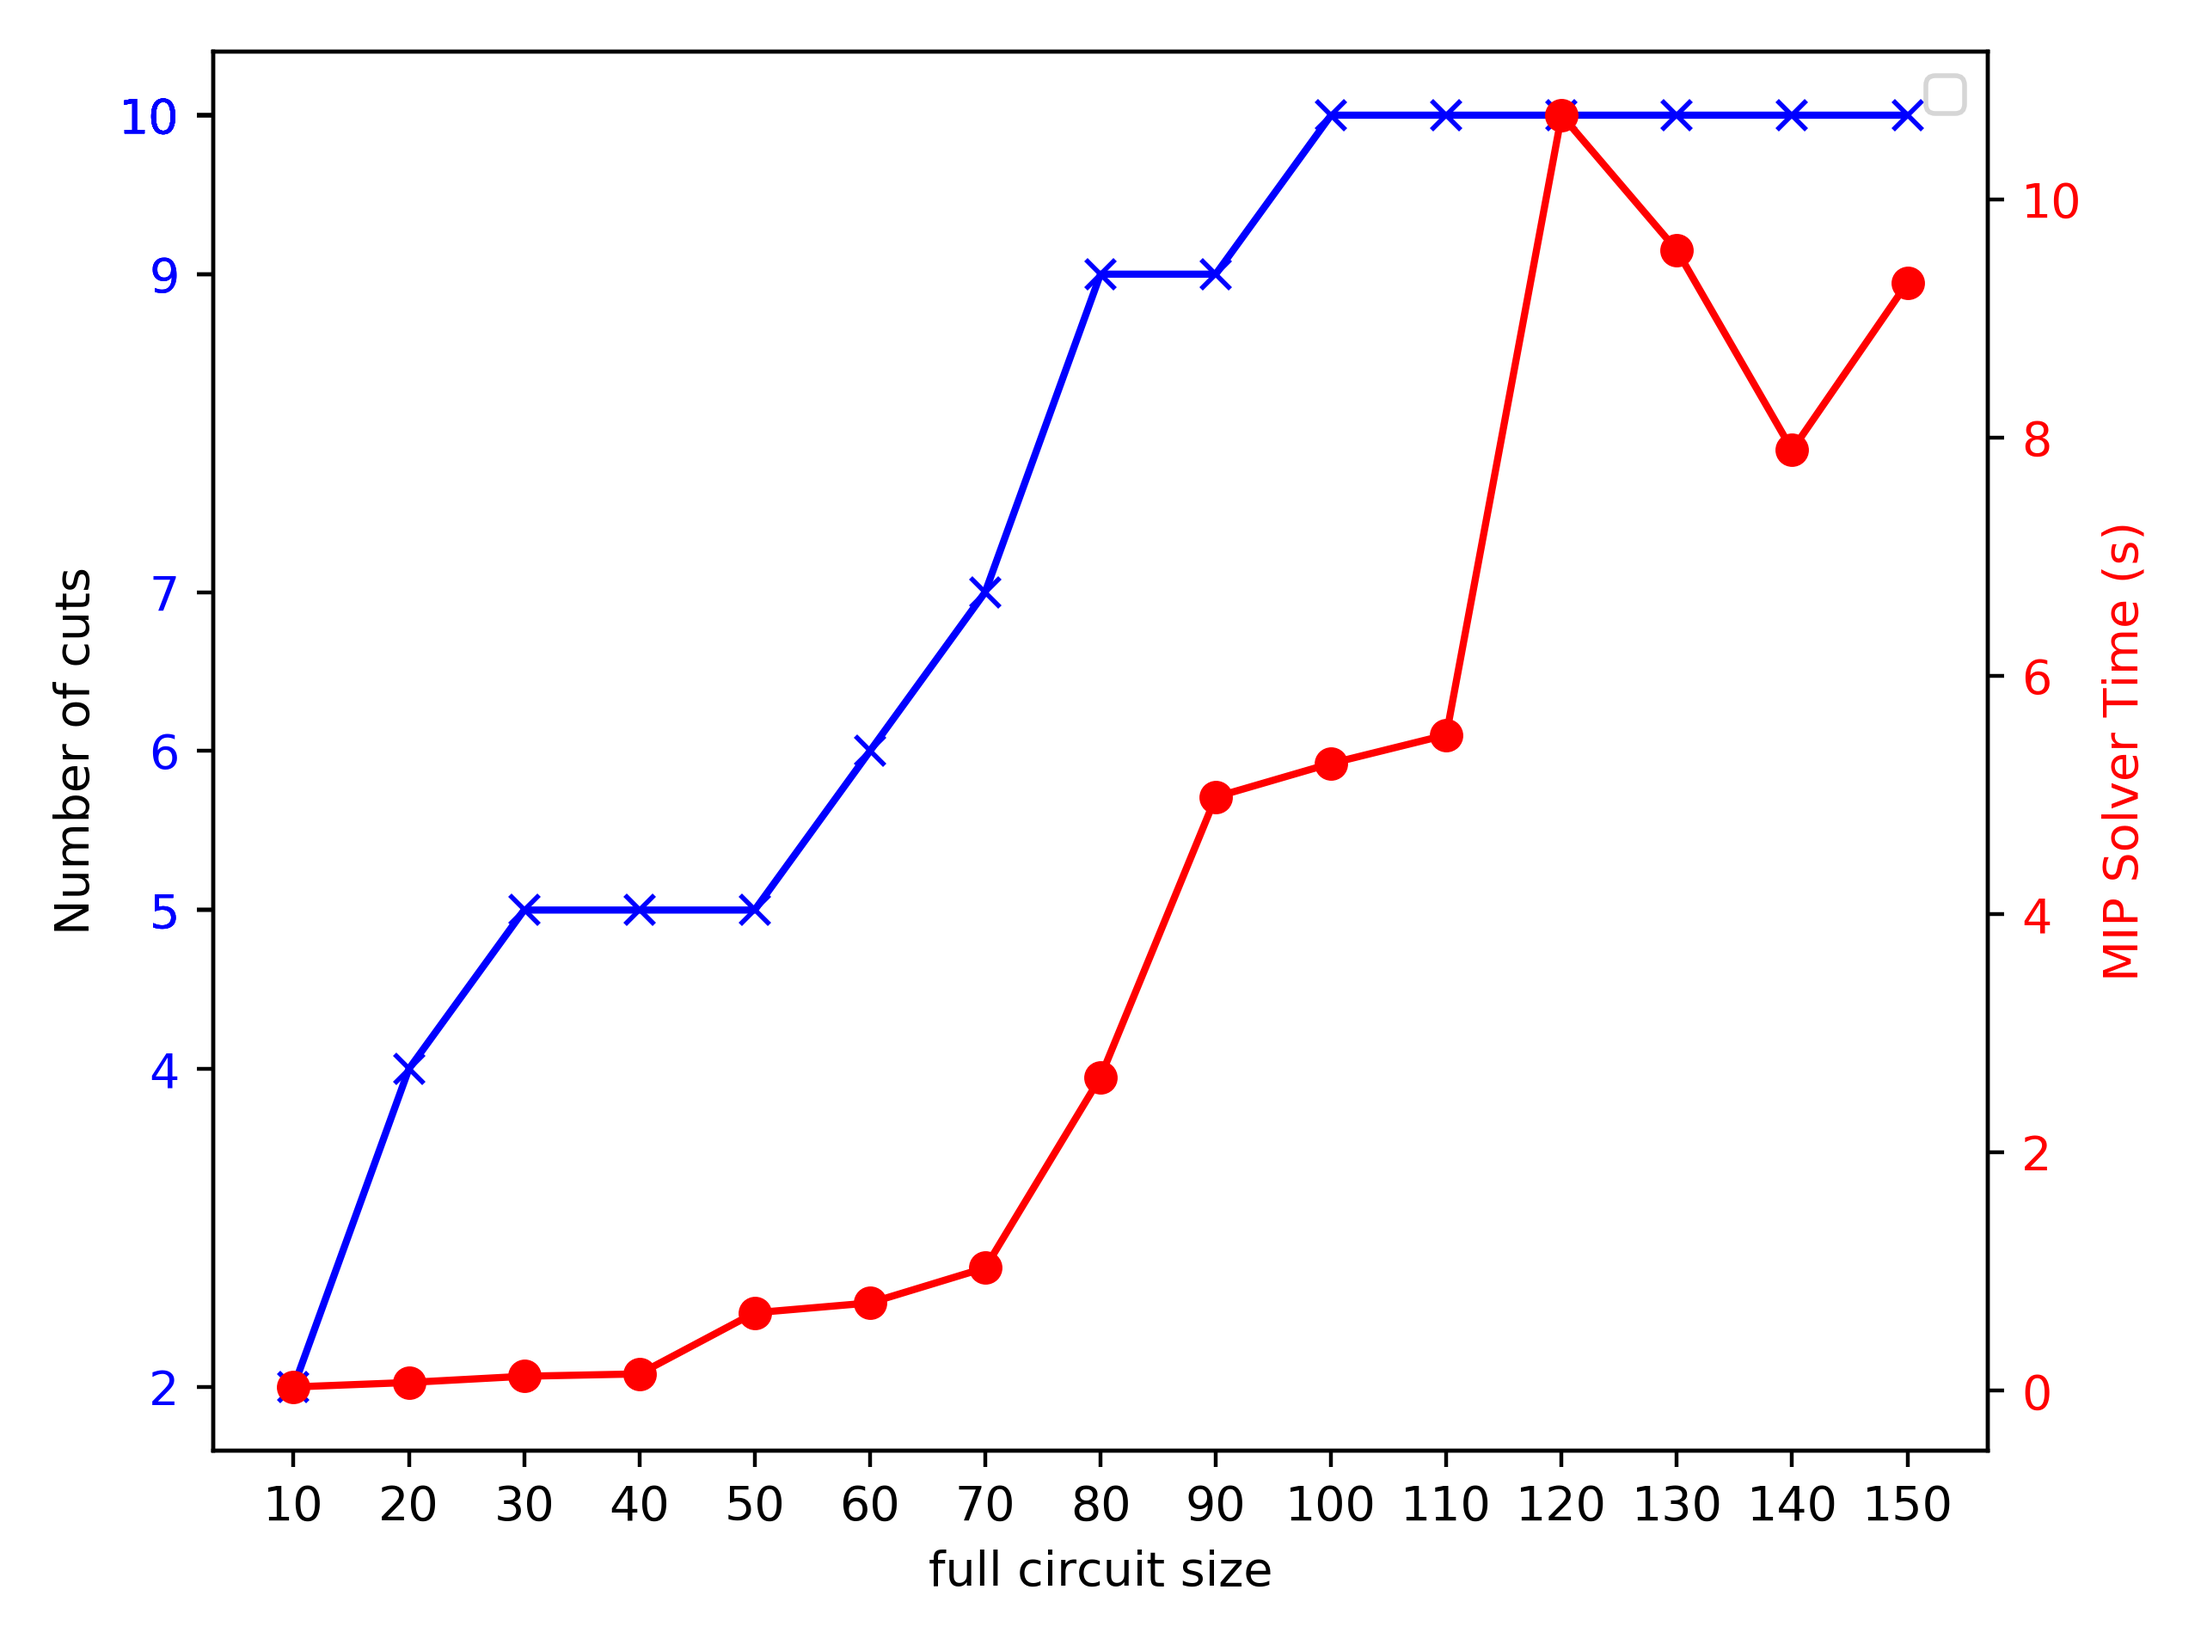
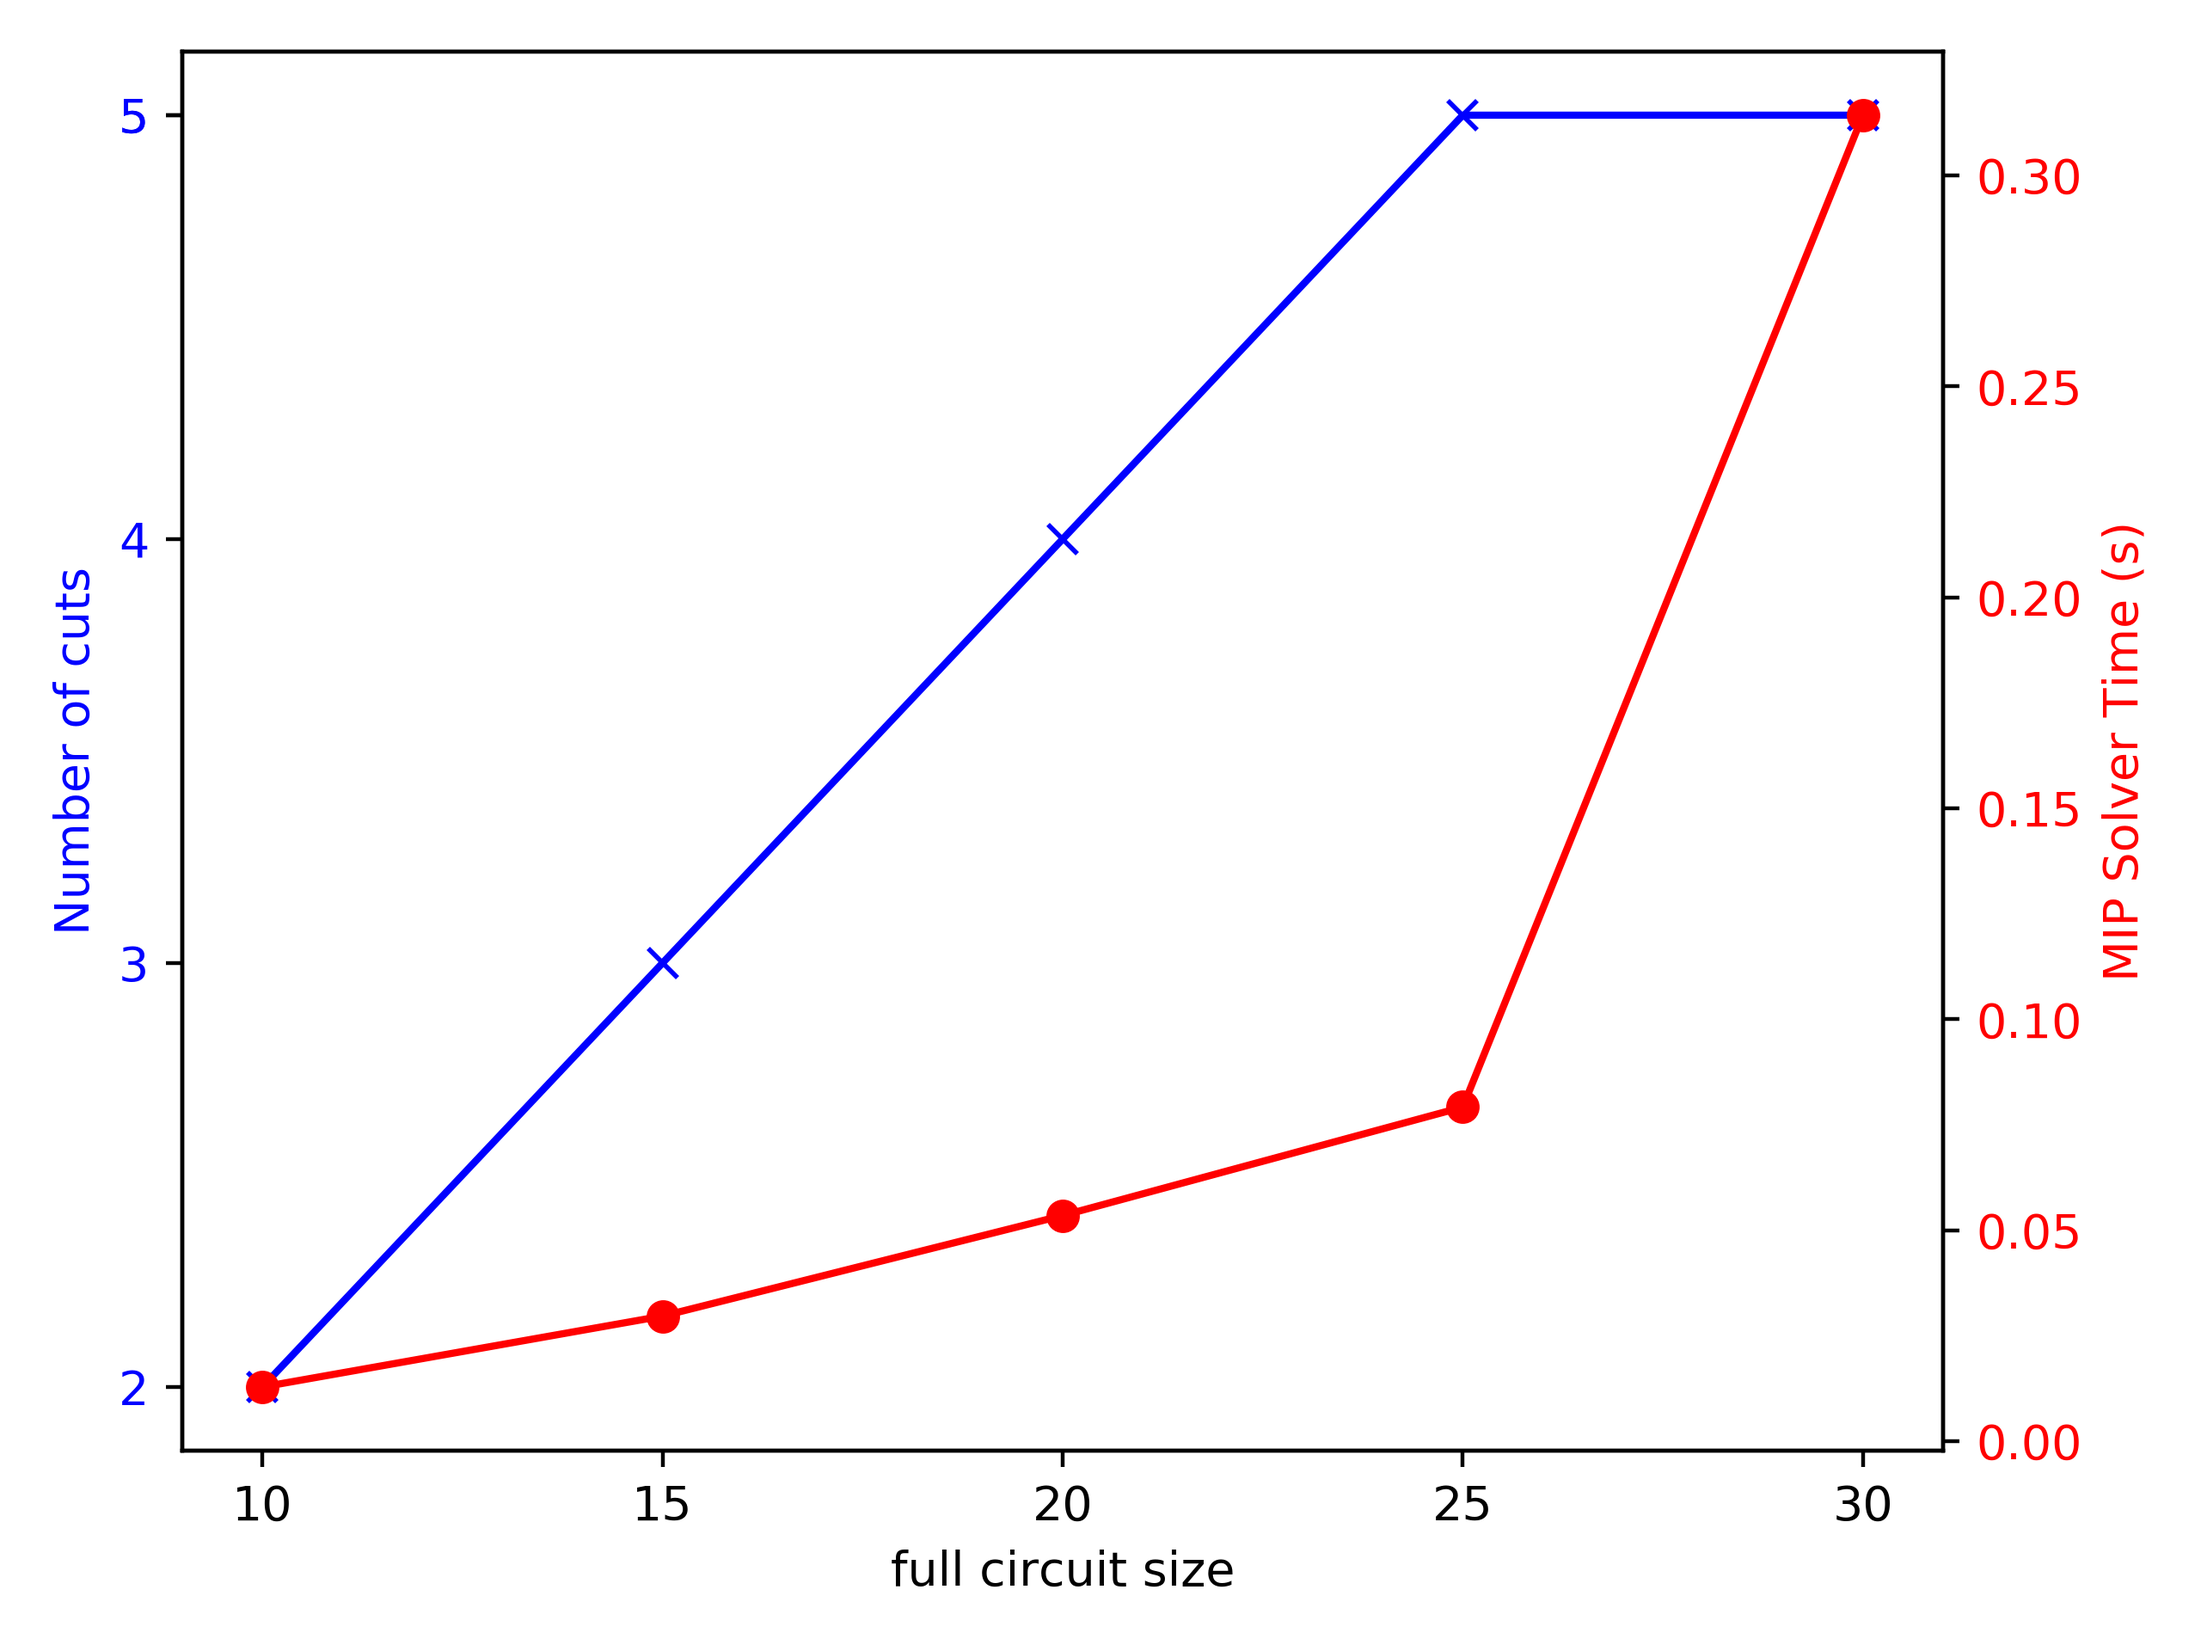
fixing cuts scaling plot

diff --git a/scalability/cuts_scaling.py b/scalability/cuts_scaling.py
@@ -22,7 +22,7 @@ def make_plot(fc_sizes,num_cuts,searcher_time):
     plt.yticks(ticks=num_cuts,labels=num_cuts)
     
     ax1.plot(fc_sizes,num_cuts,marker='x',color='b')
-    ax1.set_ylabel('Number of cuts')
+    ax1.set_ylabel('Number of cuts',color='b')
     ax1.set_xlabel('full circuit size')
     ax1.tick_params(axis='y', labelcolor='b')
 
@@ -31,10 +31,10 @@ def make_plot(fc_sizes,num_cuts,searcher_time):
     ax2.set_ylabel('MIP Solver Time (s)',color='r')
     ax2.tick_params(axis='y', labelcolor='r')
     # ax2.set_yscale('log')
-    ax2.legend()
+    # ax2.legend()
     
     plt.title('')
-    plt.legend()
+    # plt.legend()
     plt.tight_layout()
     plt.savefig('./scalability/cuts_scaling.png',dpi=400)
     plt.close()
@@ -42,7 +42,7 @@ def make_plot(fc_sizes,num_cuts,searcher_time):
 num_cuts = []
 fc_sizes = []
 searcher_times = []
-for fc_size in range(10,201,10):
+for fc_size in range(10,31,5):
     circ = generate_circ(full_circ_size=fc_size,circuit_type='supremacy')
     max_clusters = 3
     cluster_max_qubit = int(fc_size/1.5)
